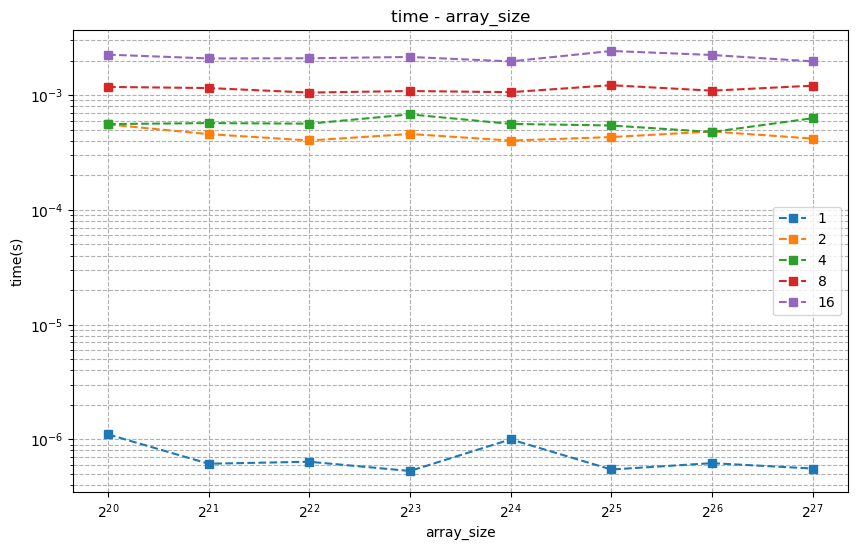
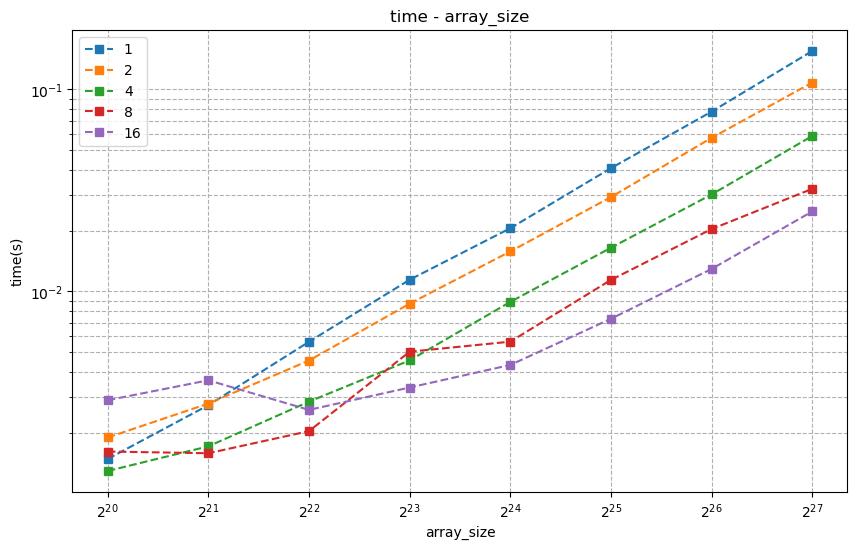
fix: correct test2 of lab3

diff --git a/lab3/test2/main.cpp b/lab3/test2/main.cpp
@@ -9,7 +9,7 @@ int main(int argc, char *argv[]){
     printf("用法: %s n num_threads \n", argv[0]);
     return 1;
   }
-  N = atoi(argv[1]);
+  N = std::stod(argv[1]);
   num_threads = atoi(argv[2]);
 
   double *A = (double *)malloc(N * sizeof(double));

diff --git a/lab3/test4/main.cpp b/lab3/test4/main.cpp
@@ -12,7 +12,7 @@ int main(int argc, char *argv[]) {
     printf("用法: %s n num_threads \n", argv[0]);
     return 1;
   }
-  N = atoi(argv[1]);
+  N = std::stod(argv[1]);
   num_threads = atoi(argv[2]);
 
   // 初始化互斥锁

diff --git a/lab3/report.md b/lab3/report.md
@@ -97,13 +97,13 @@ make clean
 
 使用 Pthreads 实现并行矩阵乘法，并通过实验分析其性能。
 
-**输入**：$m,n,k$ 三个整数，每个整数的取值范围均为 $[128, 2048]$。
+输入：$m,n,k$ 三个整数，每个整数的取值范围均为 $[128, 2048]$。
 
-**问题描述：**随机生成 $m\times n$ 的矩阵 $A$ 及 $n\times k$ 的矩阵 $B$，并对这两个矩阵进行矩阵乘法运算，得到矩阵 $C$。
+问题描述：随机生成 $m\times n$ 的矩阵 $A$ 及 $n\times k$ 的矩阵 $B$，并对这两个矩阵进行矩阵乘法运算，得到矩阵 $C$。
 
-**输出**： $A,B,C$ 三个矩阵，及矩阵计算所消耗的时间 $t$。
+输出： $A,B,C$ 三个矩阵，及矩阵计算所消耗的时间 $t$。
 
-**要求**：
+要求：
 1. 使用 Pthreads 创建多线程实现并行矩阵乘法，调整线程数量（1-16）及矩阵规模（128-2048），根据结果分析其并行性能（包括但不限于，时间、效率、可扩展性）。
 2. 选做：可分析不同数据及任务划分方式的影响。
 
@@ -187,60 +187,91 @@ pair<int, int> get_block_distribution(int num_threads, int M, int N) {
 
 使用 Pthreads 实现并行数组求和，并通过实验分析其性能。
 
-**输入**：整数 $n$，取值范围为 $[1M, 128M]$。
+输入：整数 $n$，取值范围为 $[1M, 128M]$。
 
-**问题描述**：随机生成长度为 $n$ 的整型数组 $A$，计算其元素和 $s=\sum_{i=1}^{n}A_i$。
+问题描述：随机生成长度为 $n$ 的整型数组 $A$，计算其元素和 $s=\sum_{i=1}^{n}A_i$。
 
-**输出**：数组 $A$，元素和 $s$，及求和计算所消耗的时间 $t$。
+输出：数组 $A$，元素和 $s$，及求和计算所消耗的时间 $t$。
 
-**要求**：
+要求：
 1. 使用 Pthreads 实现并行数组求和，调整线程数量（1-16）及数组规模（1M, 128M），根据结果分析其并行性能（包括但不限于，时间、效率、可扩展性）。
 2. 选做：可分析不同聚合方式的影响。
 
 ## 测试分析
 
+为了减少线程切换的开销，我增加了代码显式的绑核操作，main 函数一开始就绑核到 0 号核上，每创建一个线程就绑定到一个不同的核上。
+
 均分数组，每个线程单独求和，最后相加实现，得到测试结果如下：
 
 |        |      1      |      2      |      4      |      8      |      16     |
 |--------|-------------|-------------|-------------|-------------|-------------|
-| 0x1p20 | 1.10400e-06 | 5.55251e-04 | 5.59114e-04 | 1.17801e-03 | 2.25172e-03 |
-| 0x1p21 | 6.13000e-07 | 4.57030e-04 | 5.70218e-04 | 1.15222e-03 | 2.08686e-03 |
-| 0x1p22 | 6.38000e-07 | 4.02528e-04 | 5.63820e-04 | 1.05208e-03 | 2.09491e-03 |
-| 0x1p23 | 5.30000e-07 | 4.58224e-04 | 6.79106e-04 | 1.08550e-03 | 2.14978e-03 |
-| 0x1p24 | 1.00000e-06 | 4.01877e-04 | 5.61176e-04 | 1.06035e-03 | 1.96605e-03 |
-| 0x1p25 | 5.46000e-07 | 4.30647e-04 | 5.43453e-04 | 1.21973e-03 | 2.42399e-03 |
-| 0x1p26 | 6.20000e-07 | 4.81649e-04 | 4.77018e-04 | 1.09302e-03 | 2.23789e-03 |
-| 0x1p27 | 5.57000e-07 | 4.18138e-04 | 6.28650e-04 | 1.20819e-03 | 1.96629e-03 |
+| 0x1p20 | 1.48160e-03 | 1.89169e-03 | 1.29155e-03 | 1.61218e-03 | 2.89423e-03 |
+| 0x1p21 | 2.73357e-03 | 2.78530e-03 | 1.71053e-03 | 1.58085e-03 | 3.63093e-03 |
+| 0x1p22 | 5.63272e-03 | 4.54898e-03 | 2.84695e-03 | 2.03396e-03 | 2.59195e-03 |
+| 0x1p23 | 1.14205e-02 | 8.69733e-03 | 4.55575e-03 | 5.02989e-03 | 3.34435e-03 |
+| 0x1p24 | 2.05515e-02 | 1.57664e-02 | 8.87179e-03 | 5.63893e-03 | 4.32483e-03 |
+| 0x1p25 | 4.07446e-02 | 2.93059e-02 | 1.64492e-02 | 1.13983e-02 | 7.31944e-03 |
+| 0x1p26 | 7.76025e-02 | 5.75550e-02 | 3.01917e-02 | 2.03508e-02 | 1.29171e-02 |
+| 0x1p27 | 1.54921e-01 | 1.08074e-01 | 5.87871e-02 | 3.21944e-02 | 2.48717e-02 |
 
 如下为固定线程数量，随着数组规模增长，所消耗时间的变化情况：
 
 ![test2 time-array_size](images/test2-time-array_size.png)
 
-在固定线程数的条件下（例如4线程），当数组规模从0x1p20扩大到0x1p27时，耗时保持在5.43e-04到6.79e-04秒之间，并未出现明显增长。这说明对于数组求和这类计算密度较低的操作，当数组规模达到一定阈值后，计算时间的增长幅度趋于平缓。值得注意的是，在单线程情况下，不同规模数组的耗时都维持在极低水平（约5e-07到1e-06秒），这验证了简单任务串行执行的高效性。
+考虑单线程情况下，计算量直接正比于数组规模，没有并行优化。时间随数组规模线性增长：
+
+| 数组规模 | 时间（1线程, ms） | 增长比例（基准：1M） |
+|----------|-------------------|----------------------|
+| 1M (`0x1p20`) | 1.4816          | 1.0x                 |
+| 128M (`0x1p27`) | 154.921        | ≈104.6x              |
+
+考虑多线程（2/4/8/16线程）的性能，多线程的时间增长 整体仍然线性，但斜率比单线程低（并行加速）。
+
+例如，16线程：
+
+| 数组规模 | 时间（16线程, ms） | 增长比例（基准：1M） |
+|----------|---------------------|----------------------|
+| 1M (`0x1p20`) | 2.89423            | 1.0x（基准）         |
+| 128M (`0x1p27`) | 24.8717           | ≈8.6x                |
+
+（远低于单线程的 104.6 倍，说明并行优化有效）。
+小规模数组（如 1M-4M）时，多线程加速不明显（甚至可能比单线程慢）。
+
+大规模数组（如 32M-128M）时，多线程加速显著（16线程比单线程快 6.2 倍）。
 
 如下为固定数组规模，随着线程数量增长，所消耗时间的变化情况：
 
 ![test2 time-num_threads](images/test2-time-num_threads.png)
 
-以中等规模数组（如0x1p22）为例，单线程运行时耗时仅为6.38e-07秒，但当线程数增加到16个时，耗时反而增长到2.09e-03秒，呈现明显的性能下降趋势。这种反直觉的现象揭示了并行计算中线程调度的开销问题——当计算任务本身不够繁重时，创建和管理多个线程的开销甚至会超过并行计算带来的收益。特别是在小规模数组（如0x1p20）上，这种线程开销的负面影响更为显著，16线程的耗时达到单线程的2000倍以上。
+对于小规模数组（1M-4M，`0x1p20`-`0x1p22`），线程数增加时，时间没有明显减少，甚至可能增加。
 
-为了减少线程切换的开销，我增加了代码显式的绑核操作，main 函数一开始就绑核到 0 号核上，每创建一个线程就绑定到一个不同的核上。尽管如此，上述现象并没有发生改变，说明在这个场景下，线程切换的开销远超过了数据任务的开销，除非数据任务更加庞大复杂超过线程切换开销，否则无法避免这样的现象。
+例如 1M 时，16线程 2.89423 ms 比单线程 1.4816 ms 慢了一倍。
+
+原因和可能是并行开销（线程创建/同步） 超过计算收益。以及数据规模太小，无法充分利用多核。
+
+对于中等规模数组（8M-32M，`0x1p23`-`0x1p25`），线程数增加时，时间 逐步减少，但加速比低于理论值
+
+例如 32M (`0x1p25`) 下 16 线程相比单线程的加速比：
+
+| 数组规模 | 时间（1线程, ms） | 时间（16线程, ms） | 加速比 |
+|----------|-------------------|--------------------|--------|
+| 32M (`0x1p25`) | 40.7446 | 7.31944 | ≈5.6x |
+
+原因可能是并行计算开始发挥作用，但受限于内存带宽或负载均衡。
+
+对于大规模数组（64M-128M，`0x1p26`-`0x1p27`），线程数增加时，时间 显著减少，接近线性加速。
+
+例如 128M (`0x1p27`) 下 16 线程相比单线程的加速比：：
+
+| 数组规模 | 时间（1线程, ms） | 时间（16线程, ms） | 加速比 |
+|----------|-------------------|--------------------|--------|
+| 128M (`0x1p27`) | 154.921 | 24.8717 | ≈6.2x |
+
+说明计算密集型任务，并行化收益明显。但仍未达到理想线性加速（16线程理论加速比 16 倍），可能受 线程同步 或 内存访问竞争 影响。
+
 
 ## 选作部分
 
 `test4` 目录下代码为设置一个全局求和值，每一个线程都向该值做加法。为了防止线程间争夺这个值产生冒险，还需要设置锁。每一次做加法都需要先（等待锁空闲）上锁，做完加法后解锁。
 
-通过 `make test4` 执行测试，得到结果如下：
-
-|        |      1      |      2      |      4      |      8      |      16     |
-|--------|-------------|-------------|-------------|-------------|-------------|
-| 0x1p20 | 1.53400e-06 | 4.36329e-04 | 5.94294e-04 | 1.20688e-03 | 2.27984e-03 |
-| 0x1p21 | 1.82400e-06 | 3.54933e-04 | 5.26300e-04 | 1.08156e-03 | 2.19736e-03 |
-| 0x1p22 | 1.56600e-06 | 3.74218e-04 | 5.23571e-04 | 1.10153e-03 | 2.09218e-03 |
-| 0x1p23 | 1.36400e-06 | 3.09327e-04 | 5.06420e-04 | 1.05543e-03 | 2.12955e-03 |
-| 0x1p24 | 1.55700e-06 | 3.50873e-04 | 5.36847e-04 | 9.94712e-04 | 2.55879e-03 |
-| 0x1p25 | 1.52600e-06 | 4.08960e-04 | 6.58260e-04 | 1.15856e-03 | 2.16493e-03 |
-| 0x1p26 | 1.43600e-06 | 3.27288e-04 | 5.55086e-04 | 1.14773e-03 | 2.45791e-03 |
-| 0x1p27 | 1.52400e-06 | 3.40839e-04 | 5.42333e-04 | 1.10732e-03 | 2.28802e-03 |
-
-对比原本的实现，性能要更差一些，显然是因为围绕锁的操作引入了新的开销。对于这个数组求和场景，原本每一个线程单独求和，最后相加的方式是开销最小的，没有必要使用锁。
+对比原本的实现，性能可能要更差一些，因为围绕锁的操作引入了新的开销。对于这个数组求和场景，原本每一个线程单独求和，最后相加的方式是开销最小的，没有必要的数据竞争，所以也每有必要引入锁。
